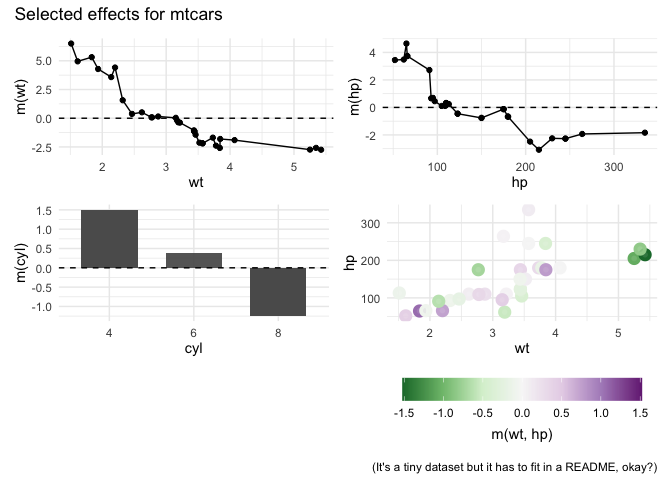
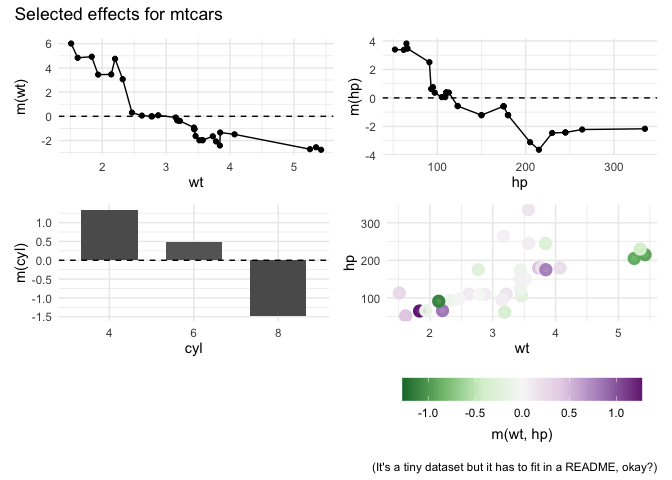
refactor plotting code a little

diff --git a/README.md b/README.md
@@ -60,12 +60,12 @@ predict(rpfit, new_data = mtcars) |>
   cbind(mpg = mtcars$mpg) |>
   head()
 #>      .pred  mpg
-#> 1 21.27391 21.0
-#> 2 21.13418 21.0
-#> 3 24.05330 22.8
-#> 4 20.59945 21.4
-#> 5 17.89879 18.7
-#> 6 18.73767 18.1
+#> 1 21.08519 21.0
+#> 2 21.07633 21.0
+#> 3 25.39977 22.8
+#> 4 20.78283 21.4
+#> 5 17.56310 18.7
+#> 6 18.71368 18.1
 ```
 
 Prediction components can be accessed via `extract_components`,
@@ -80,12 +80,12 @@ str(components)
 #> List of 2
 #>  $ m:Classes 'data.table' and 'data.frame':  32 obs. of  7 variables:
 #>   ..$ intercept: num [1:32] 20.2 20.2 20.2 20.2 20.2 ...
-#>   ..$ cyl      : num [1:32] 0.383 0.383 1.505 0.383 -1.245 ...
-#>   ..$ wt       : num [1:32] 0.515 0.152 1.567 -0.382 -1.137 ...
-#>   ..$ hp       : num [1:32] 0.318 0.318 0.665 0.318 -0.122 ...
-#>   ..$ cyl:wt   : num [1:32] -0.0773 -0.0123 0.2817 0.1982 -0.0894 ...
-#>   ..$ cyl:hp   : num [1:32] -0.2054 -0.2054 -0.1045 -0.2054 -0.0994 ...
-#>   ..$ hp:wt    : num [1:32] 0.0901 0.2489 -0.11 0.0375 0.3418 ...
+#>   ..$ cyl      : num [1:32] 0.477 0.477 1.343 0.477 -1.477 ...
+#>   ..$ wt       : num [1:32] 0.0623 0.0845 3.0677 -0.3823 -1.0544 ...
+#>   ..$ hp       : num [1:32] 0.373 0.373 0.629 0.373 -0.584 ...
+#>   ..$ cyl:wt   : num [1:32] -0.15403 -0.16567 -0.00392 -0.06926 0.14771 ...
+#>   ..$ cyl:hp   : num [1:32] 0.0429 0.0429 0.2779 0.0429 0.4573 ...
+#>   ..$ hp:wt    : num [1:32] 0.1049 0.0855 -0.0931 0.1623 -0.1054 ...
 #>   ..- attr(*, ".internal.selfref")=<externalptr> 
 #>  $ x:Classes 'data.table' and 'data.frame':  32 obs. of  3 variables:
 #>   ..$ cyl: Factor w/ 3 levels "4","6","8": 2 2 1 2 3 2 3 1 1 2 ...
